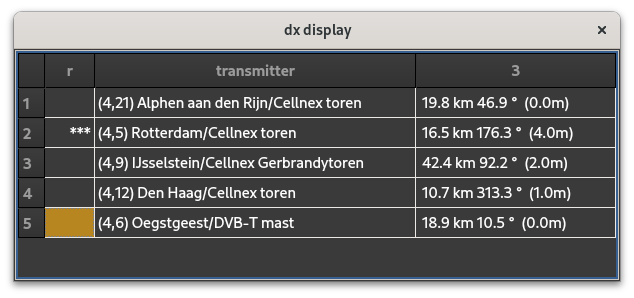
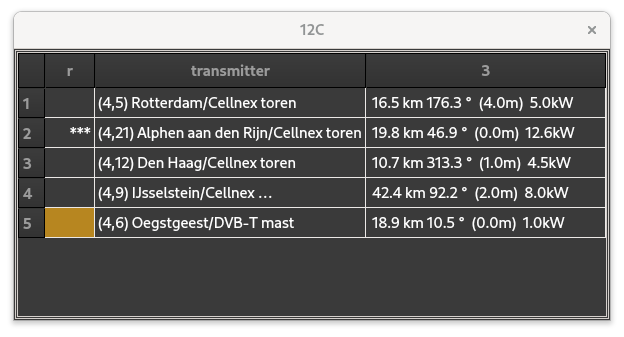
from textActived to qOverload

diff --git a/qt-dab-RC/radio.cpp b/qt-dab-RC/radio.cpp
@@ -237,7 +237,7 @@ QString h;
 	}
 
 //	put the widgets in the right place and create the workers
-	set_position_and_size	(dabSettings_p, this, "mainWidget");
+	set_position_and_size	(dabSettings_p, this, S_MAIN_WIDGET);
 	configHandler_p		= new configHandler (this, dabSettings_p);
 	the_ensembleHandler	= new ensembleHandler (this, dabSettings_p,
 	                                                       presetFile);
@@ -337,10 +337,10 @@ QString h;
 #else
 	QStringList streams;
 	QString	temp;
-	QString s = dabSettings_p -> value ("soundHandler", "portaudio").
+	QString s = dabSettings_p -> value (S_SOUND_HANDLER, S_PORT_AUDIO).
 	                                                       toString ();
 //
-	if (s != "portaudio") {
+	if (s != S_PORT_AUDIO) {
 	   try {
 	      soundOut_p	= new Qt_Audio (dabSettings_p);
 	      streams		= ((Qt_Audio *)soundOut_p) -> streams ();
@@ -388,12 +388,12 @@ QString h;
 	path_for_pictures	= checkDir (QDir::homePath ());
 #endif
 	path_for_pictures	+= "Qt-DAB-files/";
-	path_for_pictures	= dabSettings_p -> value ("picturesPath",
+	path_for_pictures	= dabSettings_p -> value (S_PICTURES_PATH,
 	                                       path_for_pictures). toString ();
 	path_for_pictures	= checkDir (path_for_pictures);
 	if (path_for_files != "")
 	   path_for_files = checkDir (path_for_files);
-	path_for_files		= dabSettings_p -> value ("filePath", 
+	path_for_files		= dabSettings_p -> value (S_FILE_PATH, 
 	                                       path_for_pictures). toString ();
 //
 #ifndef	__MINGW32__
@@ -402,7 +402,8 @@ QString h;
 	epgPath		= checkDir (QDir::homePath ());
 #endif
 	epgPath		+= "Qt-DAB-files/";
-	epgPath		= dabSettings_p -> value ("epgPath", epgPath). toString ();
+	epgPath		= dabSettings_p -> value (S_EPG_PATH,
+	                                           epgPath). toString ();
 	epgPath		= checkDir (epgPath);
 	connect (&epgProcessor, &epgDecoder::set_epgData,
 	         this, &RadioInterface::set_epgData);
@@ -576,7 +577,8 @@ void	RadioInterface::doStart (const QString &dev) {
 //	we (re)start a device, if it happens to be a regular
 //	device, check for a preset name
 void	RadioInterface::doStart_direct	() {
-	disconnect (channelSelector, &QComboBox::textActivated,
+	disconnect (channelSelector,
+	            qOverload<const QString &> (&QComboBox::activated),
 	            this, &RadioInterface::handle_channelSelector);
 	nextService	= checkPresets ();
 	if (nextService. valid) {
@@ -603,7 +605,8 @@ void	RadioInterface::doStart_direct	() {
 	configHandler_p -> disconnectDevices ();
 	configHandler_p	-> reconnectDevices ();
 	
-	connect (channelSelector, &QComboBox::textActivated,
+	connect (channelSelector,
+	         qOverload<const QString &> (&QComboBox::activated),
 	         this, &RadioInterface::handle_channelSelector);
 
 	if (configHandler_p -> tii_detector_active ())
@@ -1148,7 +1151,7 @@ void	RadioInterface::TerminateProcess () {
 	hideButtons	();
 
 	my_dxDisplay. hide ();
-	store_widget_position (dabSettings_p, this, "mainWidget");
+	store_widget_position (dabSettings_p, this, S_MAIN_WIDGET);
 	newDisplay. hide ();
 //
 #ifdef	DATA_STREAMER
@@ -3614,7 +3617,7 @@ bool listChanged = false;
 	   distanceLabel ->  setFont (f);
 	}
 	else {
-	   if (listChanged)	// rewrite the list
+	   if (listChanged)	// adapt the list and display
 	      my_dxDisplay. cleanUp ();
 	   my_dxDisplay. show ();
 	   my_dxDisplay. setChannel (channel. channelName);
@@ -3661,7 +3664,10 @@ bool listChanged = false;
 	                    + QString::number (theTr. distance, 'f', 1) + " km " 
 	                    + QString::number (theTr. corner, 'f', 1) 
 	                    + QString::fromLatin1 (" \xb0 ") 
-	                    + " (" + QString::number (height, 'f', 1) +  "m)";
+	                    + " (" + QString::number (height, 'f', 1) +  "m)"
+	                    + "  " + QString::number (power, 'f', 1) + "kW";
+	   
+
 	   if (dxMode) 
 	      my_dxDisplay. addRow (labelText, text2,  theTr. isStrongest);
 	   else 
@@ -3944,7 +3950,7 @@ void	RadioInterface::handle_snrLabel	() {
 void	RadioInterface::handle_correlationSelector	(int d) {
 	(void)d;
 	bool b =  configHandler_p -> get_correlationSelector ();
-	dabSettings_p -> setValue ("correlationOrder", b ? 1 : 0);
+	dabSettings_p -> setValue (S_CORRELATION_ORDER, b ? 1 : 0);
 	if (my_ofdmHandler != nullptr)
 	   my_ofdmHandler -> set_correlationOrder (b);
 }
@@ -3952,7 +3958,7 @@ void	RadioInterface::handle_correlationSelector	(int d) {
 void	RadioInterface::handle_dxSelector		(int d) {
 	(void)d;
 	bool b = configHandler_p -> get_dxSelector ();
-	dabSettings_p -> setValue ("dxMode", b ? 1 : 0);
+	dabSettings_p -> setValue (S_DX_MODE, b ? 1 : 0);
 	if (!b)
 	   my_dxDisplay. hide ();
 	if (my_ofdmHandler != nullptr)

diff --git a/qt-dab-RC/support/aboutdialog.cpp b/qt-dab-RC/support/aboutdialog.cpp
@@ -21,10 +21,9 @@
  *    Foundation, Inc., 59 Temple Place, Suite 330, Boston, MA  02111-1307  USA
  */
 
-
-#include <QDesktopServices>
-#include "aboutdialog.h"
-#include "ui_aboutdialog.h"
+#include	<QDesktopServices>
+#include	"aboutdialog.h"
+#include	"ui_aboutdialog.h"
 #include	"dab-constants.h"
 
 	AboutDialog::AboutDialog(QWidget *parent) :
@@ -46,20 +45,21 @@
 
 	ui -> libraries -> setText (tr("Qt-DAB uses following libraries (and greatly acknowledges the copyright):")+
                            "<ul>"
+	                   "<li>The excellent Qwt library (version 6.2) by Uwe Rathmann</li>"
                            "<li><a href=\"www.fftw.org\">FFTW</a> by Matteo Frigo and Steven G Johnsom</li>"
                            "<li><a href=\"https://github.com/Opendigitalradio/ka9q-fec\">Reed Solonon</a> by Phil Karn, KA9Q</li>"
                            "<li><a href=\"https://github.com/libsndfile\">libsndfile</a> by Erik de Castro Lopo</li>"
                            "<li><a href=\"https://github.io/libsamplerate\">libsndfile</a> by Erik de Castro Lopo</li>"
                            "<li><a href=\"www.portaudio.com/\">Portaudio</a> by Ross Bencina, Phil Burke and many others</li>"
                            "<li>An MP2 decoder by Martin J Fiedler (martin.fiedler@gmx.net)</li>"
-#if __WITH_FDK_AAC__
+	                  "<li>\"NewsService Journaline(R) Decoder\", CopyRight (c) 2003, 2001-2014 Fraunhofer IID, Erlangen, Germany</li>"
+#ifdef __WITH_FDK_AAC__
                            "<li><a href=\"https://github.com/mstorsjo/fdk-aac\">fdk-aac</a> Copyright © 1995 - 2018 Fraunhofer-Gesellschaft "
                            "zur Förderung der angewandten Forschung e.V.</li>"
 #else
                            "<li><a href=\"https://github.com/knik0/faad2\">FAAD2</a> Copyright © 2003-2005 M. Bakker, Nero AG</li>"
 #endif
-
-                           "</ul>");
+				   "</ul>");
 //	ui -> configuration -> setTextInteractionFlags (Qt::TextBrowserInteraction);
 	ui -> configuration -> setOpenExternalLinks(true);
 	ui -> configuration -> setText (tr("Qt-DAB is configured with:")+

diff --git a/qt-dab-RC/support/config-handler.cpp b/qt-dab-RC/support/config-handler.cpp
@@ -139,10 +139,10 @@ static struct {
 	b = dabSettings -> value (TRANSMITTER_NAMES_SETTING, 0). toInt () == 1;
 	this -> saveTransmittersSelector -> setChecked (b);
 
-	b = dabSettings -> value ("correlationOrder", 0). toInt () != 0;
+	b = dabSettings -> value (S_CORRELATION_ORDER, 0). toInt () != 0;
 	this	-> correlationSelector -> setChecked (b);
 
-	b = dabSettings	-> value ("dxMode", 0). toInt () != 0;
+	b = dabSettings	-> value (S_DX_MODE, 0). toInt () != 0;
 	this	-> dxSelector -> setChecked (b);
 
 #ifndef	__MSC_THREAD__
@@ -183,19 +183,23 @@ bool	configHandler::findDevice (const QString &dev) {
 }
 
 void	configHandler::connectDevices	() {
-	connect (deviceSelector, &QComboBox::textActivated,
+	connect (deviceSelector,
+	         qOverload<const QString &>(&QComboBox::activated),
 	         myRadioInterface, &RadioInterface::doStart);
 }
 
 void	configHandler::disconnectDevices () {
-	disconnect (deviceSelector, &QComboBox::textActivated,
+	disconnect (deviceSelector,
+	            qOverload<const QString &>(&QComboBox::activated),
 	            myRadioInterface, &RadioInterface::doStart);
-	disconnect (deviceSelector, &QComboBox::textActivated,
+	disconnect (deviceSelector,
+	            qOverload<const QString &>(&QComboBox::activated),
 	            myRadioInterface, &RadioInterface::newDevice);
 }
 
 void	configHandler::reconnectDevices () {
-	connect (deviceSelector, &QComboBox::textActivated,
+	connect (deviceSelector,
+	         qOverload<const QString &>(&QComboBox::activated),
 	         myRadioInterface, &RadioInterface::newDevice);
 }
 	
@@ -339,7 +343,8 @@ void	configHandler::set_connections () {
 	         myRadioInterface, &RadioInterface::handle_dxSelector);
 	connect (correlationSelector, &QCheckBox::stateChanged,
 	         myRadioInterface, &RadioInterface::handle_correlationSelector);
-	connect (decoderSelector, &QComboBox::textActivated,
+	connect (decoderSelector,
+	         qOverload<const QString &>(&QComboBox::activated),
 	         this, &configHandler::handle_decoderSelector);
 }
 

diff --git a/qt-dab-RC/support/scan-handler.cpp b/qt-dab-RC/support/scan-handler.cpp
@@ -120,7 +120,7 @@ QString scanmodeText (int e) {
 	   no_skipTables	= true;
 	else {
 	   QString t       =
-                dabSettings -> value ("dabBand", "VHF Band III"). toString();   
+                dabSettings -> value (S_DABBAND, "VHF Band III"). toString();   
            selectedBand         = t == "VHF Band III" ? frequencies_1 :
 	                                                frequencies_2;
 	   no_skipTables	= t != "VHF Band III";
@@ -164,7 +164,7 @@ QString scanmodeText (int e) {
 	scanModeSelector -> addItem ("until data");
 	scanModeSelector -> addItem ("continuous");
 	scanMode	=
-	             s -> value ("scanMode", SINGLE_SCAN). toInt ();
+	             s -> value (S_SCAN_MODE, SINGLE_SCAN). toInt ();
 	scanModeSelector	-> setCurrentIndex (scanMode);
 	connect (startKnop, &QPushButton::clicked,
 	         this, &scanHandler::handle_startKnop);
@@ -320,7 +320,7 @@ void	scanHandler::handle_stopKnop () {
 
 void	scanHandler::handle_scanMode (int index) {
 	scanMode	= index;
-	dabSettings	-> setValue ("scanMode", scanMode);
+	dabSettings	-> setValue (S_SCAN_MODE, scanMode);
 }
 
 void	scanHandler::handle_showKnop	() {
@@ -338,7 +338,6 @@ void	scanHandler::handle_defaultLoad	() {
 void	scanHandler::handle_defaultStore () {
 	skipTable. save_skipTable ("");
 }
-
 
 void	scanHandler::handle_loadKnop	() {
 	skipFile  = QFileDialog::getOpenFileName (nullptr,

diff --git a/qt-devices/sdrplay-handler-v2/sdrplay-handler-v2.cpp b/qt-devices/sdrplay-handler-v2/sdrplay-handler-v2.cpp
@@ -196,7 +196,8 @@ mir_sdr_DeviceT devDesc [4];
 	      err = my_mir_sdr_RSPII_AntennaControl (mir_sdr_RSPII_ANTENNA_A);
 	      if (err != mir_sdr_Success) 
 	         fprintf (stderr, "error %d in setting antenna\n", err);
-	      connect (antennaSelector, &QComboBox::textActivated,
+	      connect (antennaSelector,
+	            qOverload<const QString &>(&QComboBox::activated),
 	            this, &sdrplayHandler_v2::handle_antennaSelect);
 	      lnaMax		= 8;
 	      break;
@@ -209,7 +210,8 @@ mir_sdr_DeviceT devDesc [4];
 	      err	= my_mir_sdr_rspDuo_TunerSel (mir_sdr_rspDuo_Tuner_1);
 	      if (err != mir_sdr_Success) 
 	         fprintf (stderr, "error %d in setting of rspDuo\n", err);
-	      connect (tunerSelector, &QComboBox::textActivated,
+	      connect (tunerSelector,
+	               qOverload<const QString &>(&QComboBox::activated),
 	               this, &sdrplayHandler_v2::handle_tunerSelect);
 	      lnaMax		= 9;
 	      break;

diff --git a/qt-dab-RC/support/audiosystem-selector.cpp b/qt-dab-RC/support/audiosystem-selector.cpp
@@ -24,7 +24,8 @@
 #include	<cstdio>
 #include	<QVBoxLayout>
 #include	<QSettings>
-//
+#include	"settingNames.h"
+
 	audiosystemSelector::audiosystemSelector (QSettings *s) {
 	this		-> dabSettings	= s;
 	toptext		= new QLabel (this);
@@ -37,7 +38,7 @@
 	setLayout (layOut);
 
 	services = QStringList();
-	services << "portaudio" << "QT_AUDIO";
+	services << S_PORT_AUDIO << S_QT_AUDIO;
 	serviceList. setStringList (services);
 	servicesDisplay	-> setModel (&serviceList);
 	servicesDisplay	-> adjustSize();
@@ -52,7 +53,7 @@
 void	audiosystemSelector::selectService (QModelIndex ind) {
 QString select	= ind. data (Qt::DisplayRole). toString ();
 	fprintf (stderr, "selected system %s\n", select. toLatin1 (). data ());
-	dabSettings	-> setValue ("soundHandler", select);
+	dabSettings	-> setValue (S_SOUND_HANDLER, select);
 	QDialog::done (ind. row ());
 }
 

diff --git a/qt-devices/rtlsdr-handler-win-v3/rtlsdr-handler-v3.cpp b/qt-devices/rtlsdr-handler-win-v3/rtlsdr-handler-v3.cpp
@@ -216,7 +216,8 @@ char	manufac [256], product [256], serial [256];
 	set_ppmCorrection	(ppm_correction -> value());
 
 //	and attach the buttons/sliders to the actions
-	connect (gainControl, &QComboBox::textActivated,
+	connect (gainControl,
+	         qOverload<const QString &>(&QComboBox::activated),
 	         this, &rtlsdrHandler_v3::set_ExternalGain);
 	connect (agcControl, &QCheckBox::stateChanged,
 	         this, &rtlsdrHandler_v3::set_autogain);

diff --git a/qt-devices/rtlsdr-handler-win-v4/rtlsdr-handler-v4.cpp b/qt-devices/rtlsdr-handler-win-v4/rtlsdr-handler-v4.cpp
@@ -216,7 +216,8 @@ char	manufac [256], product [256], serial [256];
 	set_ppmCorrection	(ppm_correction -> value());
 
 //	and attach the buttons/sliders to the actions
-	connect (gainControl, &QComboBox::textActivated,
+	connect (gainControl,
+	         qOverload<const QString &>(&QComboBox::activated),
 	         this, &rtlsdrHandler_v4::set_ExternalGain);
 	connect (agcControl, &QCheckBox::stateChanged,
 	         this, &rtlsdrHandler_v4::set_autogain);

diff --git a/includes/support/settingNames.h b/includes/support/settingNames.h
@@ -55,3 +55,18 @@
 
 #define	SAVEDIR_XML		"saveDir_xmlDump"
 
+
+#define	S_SOUND_HANDLER		"soundHandler"
+#define	S_PORT_AUDIO		"portaudio"
+#define	S_QT_AUDIO		"QT_AUDIO"
+
+#define	S_MAIN_WIDGET		"mainWidget"
+
+#define	S_PICTURES_PATH		"picturesPath"
+#define	S_FILE_PATH		"filePath"
+#define	S_EPG_PATH		"epgPath"
+#define	S_CORRELATION_ORDER	"correlationOrder"
+#define	S_DX_MODE		"dxMode"
+
+#define	S_DABBAND		"dabBand"
+#define	S_SCAN_MODE		"scanMode"

diff --git a/qt-devices/rtlsdr-handler-linux/rtlsdr-handler.cpp b/qt-devices/rtlsdr-handler-linux/rtlsdr-handler.cpp
@@ -240,7 +240,8 @@ char	manufac [256], product [256], serial [256];
 	set_ppmCorrection	(ppm_correction -> value());
 
 //	and attach the buttons/sliders to the actions
-	connect (gainControl, &QComboBox::textActivated,
+	connect (gainControl,
+	         qOverload<const QString &>(&QComboBox::activated),
 	         this, &rtlsdrHandler::set_ExternalGain);
 	connect (agcControl, &QCheckBox::stateChanged,
 	         this, &rtlsdrHandler::set_autogain);

diff --git a/qt-devices/sdrplay-handler-v3/sdrplay-handler-v3.cpp b/qt-devices/sdrplay-handler-v3/sdrplay-handler-v3.cpp
@@ -357,7 +357,8 @@ int	sdrplayHandler_v3::set_antennaSelect (int sdrDevice) {
 	int k	= antennaSelector -> findText (setting);
 	if (k >= 0) 
 	   antennaSelector -> setCurrentIndex (k);
-	connect (antennaSelector, &QComboBox::textActivated,
+	connect (antennaSelector,
+	         qOverload<const QString &>(&QComboBox::activated),
 	         this, &sdrplayHandler_v3::set_selectAntenna);
 	return k == 2 ? 'C' : k == 1 ? 'B' : 'A';
 }

diff --git a/qt-dab-RC/support/dxDisplay.cpp b/qt-dab-RC/support/dxDisplay.cpp
@@ -33,7 +33,7 @@
 	tableWidget 	= new QTableWidget (0, 3);
 	tableWidget	-> setColumnWidth (0, 60);
 	tableWidget	-> setColumnWidth (1, 200);
-	tableWidget	-> setColumnWidth (2, 200);
+	tableWidget	-> setColumnWidth (2, 240);
 	QHeaderView *headerView = tableWidget -> horizontalHeader ();
 	headerView	-> setSectionResizeMode (1, QHeaderView::Stretch);
 	headerView	-> resizeSection (0, 50);
